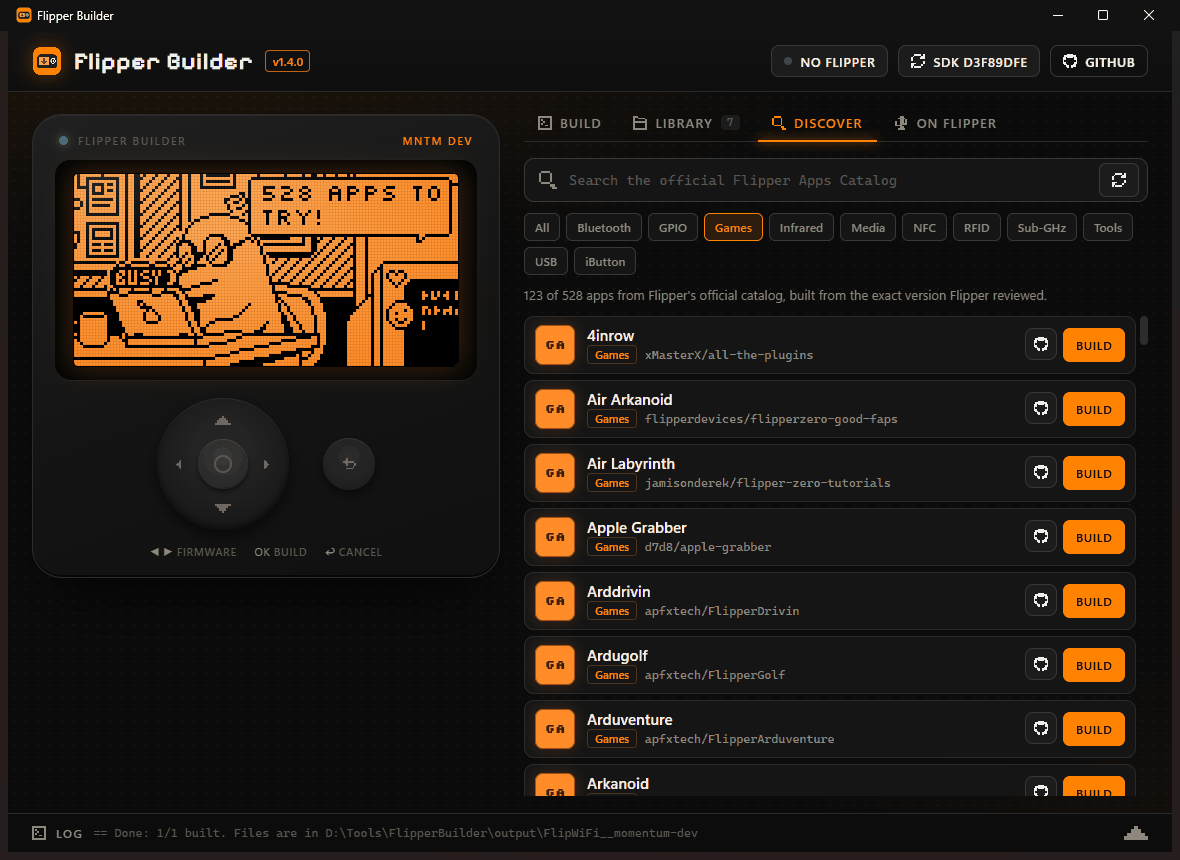
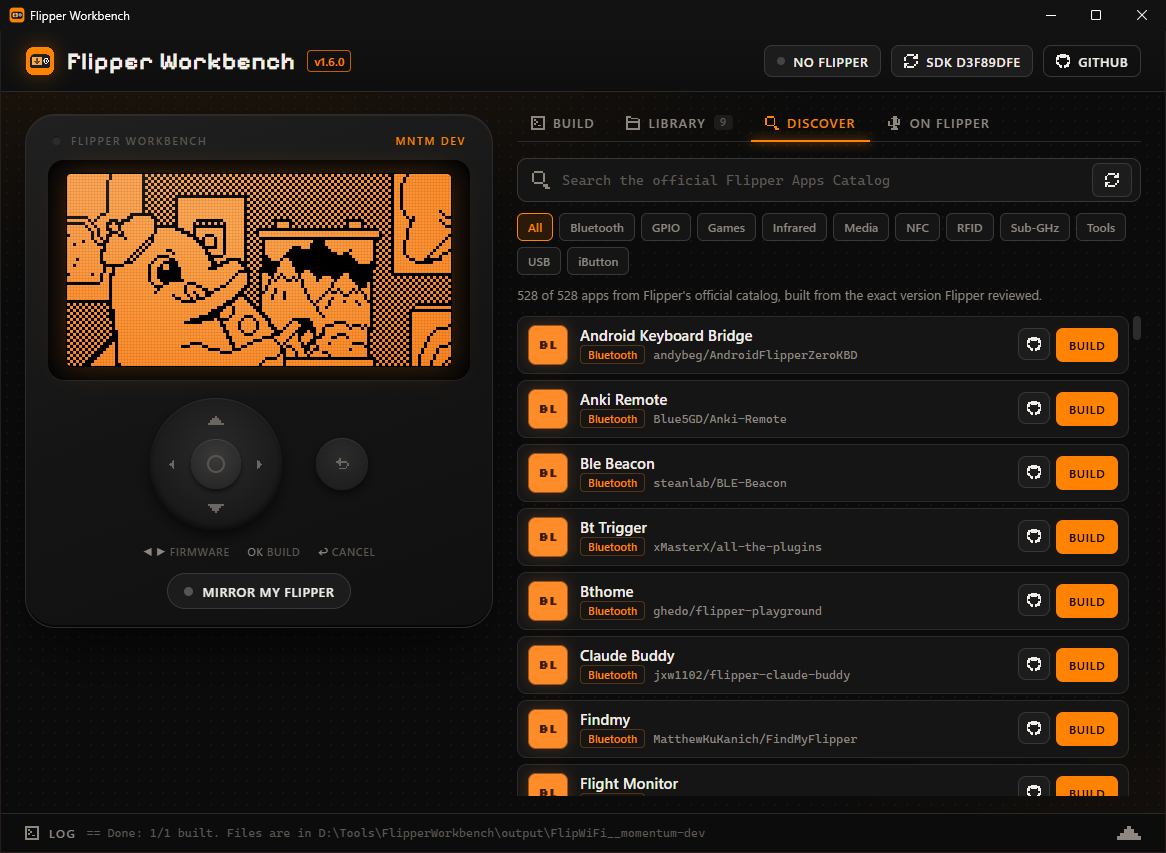
v1.6.0: rename to Flipper Workbench
The app now manages apps, files, backups and the screen of the Flipper,
not just builds, so it is renamed. Engine module, exe, installer, window,
UI and README follow the new name.

- install.ps1 takes over an old Flipper Builder install: moves its data
  (folders renamed whole, so the toolchain's junction survives), removes
  the old shortcuts and Apps entry.
- Library paths into a moved data folder are rebased on load.
- Backups made before the rename still restore; FLIPPER_BUILDER_HOME is
  still honoured.
- Fix: building one app from a repo no longer wipes the other apps built
  from that repo in output/.

diff --git a/ui/app.js b/ui/app.js
@@ -1,4 +1,4 @@
-/* Flipper Builder UI. Talks to Python through window.pywebview.api (see gui.py). */
+/* Flipper Workbench UI. Talks to Python through window.pywebview.api (see gui.py). */
 (() => {
 "use strict";
 
@@ -242,12 +242,12 @@ function mockApi() {
     { key: "c", source: "https://github.com/x/dice", repo: "x/dice", name: "Dice D&D", appid: "dice", category: "Games", version: "1.2", fw: "official", sdk: "1.5.1", api: "88.2", file: "C:\\d.fap", files: [{ path: "C:\\d.fap" }], size: 9000, built: Date.now() / 1000 - 600 },
   ];
   return {
-    init: async () => ({ version: "1.3.0", repo: "https://github.com/c3rb3ruszx/flipper-builder",
+    init: async () => ({ version: "1.3.0", repo: "https://github.com/c3rb3ruszx/flipper-workbench",
       firmwares: fws.map(([id, label, short, sdk, api]) => ({ id, label, short, sdk, api })), fw: "momentum-dev", after: "none", auto_fw: true,
       recent: [{ url: "https://github.com/jblanked/FlipWiFi", fw: "momentum-dev", name: "FlipWiFi", repo: "jblanked/FlipWiFi", ok: true, t: 0 }],
       clipboard: "", out_dir: "C:\\output", device: { connected: false }, library_count: lib.length }),
     start_background: async () => { later(2500, [{ type: "device", device: { connected: true, port: "COM7", name: "Ochenko", fw: "momentum-dev", fw_name: "Momentum dev", version: "mntm-dev", commit: "d3f89dfe", api: "87.1" } }]);
-      later(4000, [{ type: "update", version: "1.4.0", url: "https://github.com/c3rb3ruszx/flipper-builder/releases" }]); return true; },
+      later(4000, [{ type: "update", version: "1.4.0", url: "https://github.com/c3rb3ruszx/flipper-workbench/releases" }]); return true; },
     clipboard: async () => "", set_prefs: async () => true, refresh_device: async () => ({}),
     build: async (url, fw) => {
       const fail = /fail/.test(url), multi = /multi/.test(url);

diff --git a/ui/index.html b/ui/index.html
@@ -2,7 +2,7 @@
 <html lang="en">
 <head>
 <meta charset="utf-8">
-<title>Flipper Builder</title>
+<title>Flipper Workbench</title>
 <meta name="viewport" content="width=device-width, initial-scale=1">
 <link rel="stylesheet" href="app.css">
 </head>
@@ -11,7 +11,7 @@
 <header class="top">
   <div class="brand">
     <img class="brand-icon" src="icon.png" alt="">
-    <h1>Flipper Builder</h1>
+    <h1>Flipper Workbench</h1>
     <span class="ver" id="ver">v1</span>
     <button class="pill update" id="updatePill" hidden title="A new version is out"><i data-icon="tri-up"></i><span id="updateText">Update</span></button>
   </div>
@@ -31,7 +31,7 @@
   <section class="device" aria-label="Flipper screen">
     <div class="device-top">
       <span class="led" id="led" title="Status LED"></span>
-      <span class="device-label">FLIPPER&nbsp;BUILDER</span>
+      <span class="device-label">FLIPPER&nbsp;WORKBENCH</span>
       <span class="device-fw" id="deviceFw">OFW</span>
     </div>
     <div class="bezel">

diff --git a/flipper_workbench.py b/flipper_workbench.py
@@ -1,7 +1,7 @@
-"""Flipper Builder: paste a GitHub link to a Flipper Zero app, get a .fap.
+"""Flipper Workbench: build, install and manage Flipper Zero apps from your PC.
 
-GUI:  pythonw flipper_builder.py            (window: gui.py, UI: ui/)
-CLI:  python flipper_builder.py <github-url> [--fw official|official-dev|momentum|momentum-dev|unleashed|unleashed-dev] [--send]
+GUI:  pythonw flipper_workbench.py            (window: gui.py, UI: ui/)
+CLI:  python flipper_workbench.py <github-url> [--fw official|official-dev|momentum|momentum-dev|unleashed|unleashed-dev] [--send]
 """
 
 import base64
@@ -19,14 +19,15 @@ import urllib.request
 import zipfile
 from pathlib import Path
 
-APP_NAME = "Flipper Builder"
-APP_VERSION = "1.5.0"
-APP_ID = "c3rb3ruszx.FlipperBuilder"
-REPO_URL = "https://github.com/c3rb3ruszx/flipper-builder"
+APP_NAME = "Flipper Workbench"
+APP_VERSION = "1.6.0"
+APP_ID = "c3rb3ruszx.FlipperWorkbench"
+REPO_URL = "https://github.com/c3rb3ruszx/flipper-workbench"
 FROZEN = getattr(sys, "frozen", False)
 # Frozen app: data lives next to the .exe. From source: next to this file.
 ROOT = Path(sys.executable).resolve().parent if FROZEN else Path(__file__).resolve().parent
-ROOT = Path(os.environ.get("FLIPPER_BUILDER_HOME", ROOT))
+# FLIPPER_BUILDER_HOME is the pre-1.6 name, still honoured
+ROOT = Path(os.environ.get("FLIPPER_WORKBENCH_HOME") or os.environ.get("FLIPPER_BUILDER_HOME") or ROOT)
 BUNDLE = Path(getattr(sys, "_MEIPASS", Path(__file__).resolve().parent))
 ICON = BUNDLE / "assets" / "icon.ico"
 UI_DIR = BUNDLE / "ui"
@@ -299,11 +300,30 @@ def install_to_flipper(job, files, port=None):
 
 # ---------------------------------------------------------------- library of built apps
 
+def _rebase_output(path):
+    """A built file whose folder was moved (or renamed, as in 1.6.0) is looked up under this ROOT's output/."""
+    if not path or Path(path).exists():
+        return path
+    parts = Path(path).parts
+    low = [p.lower() for p in parts]
+    if "output" not in low:
+        return path
+    last = len(low) - 1 - low[::-1].index("output")
+    tail = parts[last + 1:]
+    moved = OUT_DIR.joinpath(*tail) if tail else None
+    return str(moved) if moved and moved.exists() else path
+
+
 def load_library():
     try:
-        return json.loads(LIBRARY.read_text(encoding="utf-8"))
+        items = json.loads(LIBRARY.read_text(encoding="utf-8"))
     except Exception:  # noqa: BLE001
         return []
+    for i in items:
+        i["file"] = _rebase_output(i.get("file"))
+        for f in i.get("files") or []:
+            f["path"] = _rebase_output(f.get("path"))
+    return items
 
 
 def save_library(items):
@@ -583,8 +603,8 @@ def build(source, fw="official", send=False, job=None, install=False, only=None)
     env = ensure_sdk(job, fw)
     version, api = sdk_version(fw), sdk_api(fw)
     out = OUT_DIR / f"{repo}__{fw}"
-    if not only:
-        rmtree(out)
+    # Never clear this folder: it is shared by every app built from this repo for this firmware
+    # (e.g. two subfolders of one collection), and the library points at those files. New builds overwrite.
     out.mkdir(parents=True, exist_ok=True)
 
     job.stage("build", f"{len(apps)} app(s)")
@@ -695,7 +715,7 @@ if __name__ == "__main__":
         sys.stdout = open(os.devnull, "w")
     if sys.stderr is None:
         sys.stderr = open(os.devnull, "w")
-    # A stray script path (e.g. an old shortcut that ran "pythonw flipper_builder.py") is not a CLI call.
+    # A stray script path (e.g. an old shortcut that ran "pythonw flipper_workbench.py") is not a CLI call.
     args = [a for a in sys.argv[1:] if not a.lower().endswith((".py", ".pyw"))]
     if args:
         sys.exit(cli(args))

diff --git a/device.py b/device.py
@@ -149,7 +149,7 @@ def read_info(port, sdk_dirs):
 
 
 def classify(info):
-    """Map device info to (firmware id, nice name). Firmware id matches flipper_builder.FIRMWARES."""
+    """Map device info to (firmware id, nice name). Firmware id matches flipper_workbench.FIRMWARES."""
     fork = (info.get("firmware_origin_fork") or "").lower()
     git = (info.get("firmware_origin_git") or "").lower()
     version = (info.get("firmware_version") or "").lower()
@@ -525,7 +525,7 @@ def backup(port, sdk_dirs, names, zip_path, device_info=None, progress=lambda do
                     z.writestr(f[len("/ext/"):], data)
                     done += size
                     progress(done, total, f)
-                z.writestr("_flipper_builder_backup.json", json.dumps({
+                z.writestr(BACKUP_META, json.dumps({
                     "created": int(time.time()), "folders": names, "files": len(files), "bytes": done,
                     "device": device_info or {}}, indent=1))
         finally:
@@ -534,13 +534,20 @@ def backup(port, sdk_dirs, names, zip_path, device_info=None, progress=lambda do
     return {"path": str(zip_path), "files": len(files), "bytes": done}
 
 
+BACKUP_META = "_flipper_workbench_backup.json"
+_META_NAMES = (BACKUP_META, "_flipper_builder_backup.json")   # backups made before the rename
+
+
 def backup_info(zip_path):
     with zipfile.ZipFile(zip_path) as z:
-        try:
-            meta = json.loads(z.read("_flipper_builder_backup.json"))
-        except KeyError:
-            meta = {}
-        names = [i for i in z.infolist() if not i.is_dir() and i.filename != "_flipper_builder_backup.json"]
+        meta = {}
+        for n in _META_NAMES:
+            try:
+                meta = json.loads(z.read(n))
+                break
+            except KeyError:
+                pass
+        names = [i for i in z.infolist() if not i.is_dir() and i.filename not in _META_NAMES]
         meta["files"] = len(names)
         meta["bytes"] = sum(i.file_size for i in names)
     return meta
@@ -549,7 +556,7 @@ def backup_info(zip_path):
 def restore(port, sdk_dirs, zip_path, progress=lambda done, total, name: None, should_stop=lambda: False):
     """Copy every file in a backup zip back to /ext, replacing files with the same path. Deletes nothing."""
     with zipfile.ZipFile(zip_path) as z:
-        items = [i for i in z.infolist() if not i.is_dir() and i.filename != "_flipper_builder_backup.json"]
+        items = [i for i in z.infolist() if not i.is_dir() and i.filename not in _META_NAMES]
         for i in items:   # never let a crafted zip write outside /ext
             if i.filename.startswith(("/", "\\")) or ".." in i.filename.replace("\\", "/").split("/"):
                 raise DeviceError(f"Unsafe path in backup: {i.filename}")

diff --git a/gui.py b/gui.py
@@ -1,4 +1,4 @@
-"""Flipper Builder window: a pywebview (WebView2) shell around ui/index.html.
+"""Flipper Workbench window: a pywebview (WebView2) shell around ui/index.html.
 
 Python -> JS: batched events via window.fb.onEvents([...]).
 JS -> Python: the public methods of Api (pywebview's js_api bridge).
@@ -17,7 +17,7 @@ import urllib.request
 import webbrowser
 from pathlib import Path
 
-import flipper_builder as fb
+import flipper_workbench as fb
 
 MAX_RECENT = 8
 AFTER_MODES = ("none", "install", "open")   # what happens after a build: nothing / copy to SD / copy + open
@@ -786,8 +786,8 @@ class Api:
     def _update_check(self):
         try:
             req = urllib.request.Request(
-                "https://api.github.com/repos/c3rb3ruszx/flipper-builder/releases/latest",
-                headers={"User-Agent": "flipper-builder", "Accept": "application/vnd.github+json"})
+                "https://api.github.com/repos/c3rb3ruszx/flipper-workbench/releases/latest",
+                headers={"User-Agent": "flipper-workbench", "Accept": "application/vnd.github+json"})
             with urllib.request.urlopen(req, timeout=15) as r:
                 rel = json.loads(r.read())
             latest = rel.get("tag_name", "")
@@ -838,9 +838,9 @@ def _dark_title_bar(window):
 
 
 def _no_webview2_message(err):
-    msg = ("Flipper Builder needs Microsoft Edge WebView2, which is missing or broken on this PC.\n\n"
+    msg = ("Flipper Workbench needs Microsoft Edge WebView2, which is missing or broken on this PC.\n\n"
            "Install the 'Evergreen Bootstrapper' from\n"
-           "https://developer.microsoft.com/microsoft-edge/webview2/\nthen open Flipper Builder again.\n\n"
+           "https://developer.microsoft.com/microsoft-edge/webview2/\nthen open Flipper Workbench again.\n\n"
            f"Details: {err}")
     try:
         ctypes.windll.user32.MessageBoxW(None, msg, fb.APP_NAME, 0x10)

diff --git a/tools/make_social.py b/tools/make_social.py
@@ -54,7 +54,7 @@ d.ellipse((cx - 17, cy - 17, cx + 17, cy + 17), fill=(58, 58, 58))
 d.ellipse((cx + 96, cy - 20, cx + 136, cy + 20), fill=(36, 36, 36), outline=(52, 52, 52), width=2)
 
 # ---- text block
-pix = ImageFont.truetype(str(ROOT / "ui" / "vendor" / "fonts" / "PixelifySans.ttf"), 92)
+pix = ImageFont.truetype(str(ROOT / "ui" / "vendor" / "fonts" / "PixelifySans.ttf"), 82)
 try:
     pix.set_variation_by_axes([700])
 except Exception:  # noqa: BLE001
@@ -66,16 +66,16 @@ icon = Image.open(ROOT / "assets" / "icon.png").convert("RGBA").resize((88, 88),
 x0 = 84
 img.paste(icon, (x0, 92), icon)
 d.text((x0, 196), "Flipper", font=pix, fill=TEXT)
-d.text((x0, 290), "Builder", font=pix, fill=ORANGE)
-d.text((x0, 410), "GitHub link in, app on your", font=body, fill=MUTED)
-d.text((x0, 452), "Flipper Zero out.", font=body, fill=MUTED)
+d.text((x0, 284), "Workbench", font=pix, fill=ORANGE)
+d.text((x0, 410), "Build, install and manage", font=body, fill=MUTED)
+d.text((x0, 452), "Flipper Zero apps from your PC.", font=body, fill=MUTED)
 # feature chips
 x = x0
-for label in ("OFFICIAL", "MOMENTUM", "UNLEASHED", "USB INSTALL"):
+for label in ("BUILD", "APPS", "FILES", "BACKUPS", "MIRROR"):
     w = int(d.textlength(label, font=small)) + 28
     d.rounded_rectangle((x, 528, x + w, 568), radius=9, fill=(43, 26, 10), outline=(150, 78, 10), width=2)
     d.text((x + 14, 535), label, font=small, fill=(255, 160, 64))
-    x += w + 12
+    x += w + 10
 
 out = ROOT / "assets" / "social-preview.png"
 img.save(out, optimize=True)

diff --git a/catalog.py b/catalog.py
@@ -16,7 +16,7 @@ REPO = "flipperdevices/flipper-application-catalog"
 TREE_URL = f"https://api.github.com/repos/{REPO}/git/trees/main?recursive=1"
 RAW = f"https://raw.githubusercontent.com/{REPO}/main/"
 MAX_AGE = 7 * 24 * 3600
-UA = {"User-Agent": "flipper-builder"}
+UA = {"User-Agent": "flipper-workbench"}
 
 
 def _get(url, timeout=30):

diff --git a/tools/fetch_assets.py b/tools/fetch_assets.py
@@ -42,7 +42,7 @@ FONTS = {
 
 
 def get(url):
-    req = urllib.request.Request(url, headers={"User-Agent": "flipper-builder-assets"})
+    req = urllib.request.Request(url, headers={"User-Agent": "flipper-workbench-assets"})
     with urllib.request.urlopen(req, timeout=60) as r:
         return r.read()
 

diff --git a/README.md b/README.md
@@ -1,24 +1,27 @@
-# Flipper Builder
+# Flipper Workbench
 
-[![Latest release](https://img.shields.io/github/v/release/c3rb3ruszx/flipper-builder?color=ff8200&label=release)](../../releases/latest)
+[![Latest release](https://img.shields.io/github/v/release/c3rb3ruszx/flipper-workbench?color=ff8200&label=release)](../../releases/latest)
 [![Platform](https://img.shields.io/badge/platform-Windows%2010%20%7C%2011-ff8200)](../../releases/latest)
-[![License](https://img.shields.io/github/license/c3rb3ruszx/flipper-builder?color=ff8200)](LICENSE)
+[![License](https://img.shields.io/github/license/c3rb3ruszx/flipper-workbench?color=ff8200)](LICENSE)
 
-**Paste a GitHub link to a Flipper Zero app, press Build, and it's on your Flipper.**
+**Build, install and manage your Flipper Zero's apps from your PC.**
 
-![Flipper Builder compiling an app while the dolphin solders](assets/screenshot.png)
+![Flipper Workbench compiling an app while the dolphin solders](assets/screenshot.png)
 
-A Windows app around [ufbt](https://github.com/flipperdevices/flipperzero-ufbt), Flipper's official
-build tool. No command line and no SDK setup: it gets the right SDK for your firmware, fetches the
-code, builds the app and installs it over USB. The dolphin keeps you company on a Flipper-style LCD
-the whole time: it reads the repo, solders while it compiles, DJs when it's done and cries when the
-build breaks.
+A Windows desktop companion for the Flipper Zero. Paste a GitHub link and it builds the app for your
+exact firmware with [ufbt](https://github.com/flipperdevices/flipperzero-ufbt), Flipper's official
+build tool, then installs it over USB. No command line, no SDK setup. It also lists and manages
+every app on your Flipper, browses and backs up the SD card, and mirrors the Flipper's screen with a
+working remote. The dolphin keeps you company on a Flipper-style LCD the whole time: it reads the
+repo, solders while it compiles, DJs when it's done and cries when the build breaks.
+
+*Called Flipper Builder up to version 1.5.0.*
 
 **[Download the latest release](../../releases/latest)** · [What's new](CHANGELOG.md)
 
 ## Quick start
 
-1. Download `FlipperBuilder-win64.zip`, unzip it anywhere, and run `FlipperBuilder.exe`.
+1. Download `FlipperWorkbench-win64.zip`, unzip it anywhere, and run `FlipperWorkbench.exe`.
 2. Plug in your Flipper (close qFlipper). The app reads its firmware and picks the matching SDK.
 3. Paste a GitHub link to an app, or pick one on the **Discover** tab, and press **Build**.
 
@@ -64,7 +67,7 @@ build breaks.
 - The d-pad works like a Flipper's: left/right switches firmware, OK builds, Back cancels. Keyboard:
   arrows, Enter, Esc, Ctrl+L (link), Ctrl+F (search). Poke the dolphin.
 - SDKs refresh themselves once a day; the **SDK** button in the header forces it.
-- A notice in the header when a new version of Flipper Builder is out.
+- A notice in the header when a new version of Flipper Workbench is out.
 
 ## Screenshots
 
@@ -79,20 +82,20 @@ build breaks.
 
 ## Install
 
-Download `FlipperBuilder-win64.zip` from [Releases](../../releases/latest), unzip anywhere and run
-`FlipperBuilder.exe`. Needs Windows 10 or 11 with Microsoft Edge WebView2 (built into Windows 11).
+Download `FlipperWorkbench-win64.zip` from [Releases](../../releases/latest), unzip anywhere and run
+`FlipperWorkbench.exe`. Needs Windows 10 or 11 with Microsoft Edge WebView2 (built into Windows 11).
 The first build downloads Flipper's toolchain (a few hundred MB, once). SDKs and built apps are kept
 next to the exe. For USB features, close qFlipper: only one program can use the Flipper's USB port.
 
 ## Run from source
 
-Needs Windows and Python 3.10+. Double-click `Flipper Builder.bat`, or:
+Needs Windows and Python 3.10+. Double-click `Flipper Workbench.bat`, or:
 
 ```
 python -m venv .venv
 .venv\Scripts\pip install ufbt pywebview pyserial
-.venv\Scripts\python flipper_builder.py                                                    # GUI
-.venv\Scripts\python flipper_builder.py <github-url-or-folder> --fw momentum-dev [--send]  # CLI
+.venv\Scripts\python flipper_workbench.py                                                    # GUI
+.venv\Scripts\python flipper_workbench.py <github-url-or-folder> --fw momentum-dev [--send]  # CLI
 ```
 
 `--fw` is one of `official`, `official-dev`, `momentum`, `momentum-dev`, `unleashed`, `unleashed-dev`.
@@ -104,12 +107,14 @@ against a built-in mock, which is handy for working on the design.
 
 ```
 .venv\Scripts\pip install pyinstaller pillow
-powershell -ExecutionPolicy Bypass -File tools\build_exe.ps1     # -> dist\FlipperBuilder\
+powershell -ExecutionPolicy Bypass -File tools\build_exe.ps1     # -> dist\FlipperWorkbench\
 powershell -ExecutionPolicy Bypass -File tools\install.ps1       # optional: Start menu, desktop, Apps list
 ```
 
-`install.ps1` installs to `%LOCALAPPDATA%\Programs\FlipperBuilder` by default (`-Target <folder>` to
-change it) and registers a per-user uninstaller. No admin rights needed.
+`install.ps1` installs to `%LOCALAPPDATA%\Programs\FlipperWorkbench` by default (`-Target <folder>` to
+change it) and registers a per-user uninstaller. No admin rights needed. It also takes over an old
+Flipper Builder install: SDKs, built apps, library and settings move to the new folder, and the old
+shortcuts and Apps entry are removed.
 
 ## How it works
 
@@ -135,7 +140,7 @@ caches it for a week.
 - **ufbt** and the **storage client** (`flipper_storage.py`) by Flipper Devices, GPL-3.0.
 - **App catalog index**: Flipper's official Apps Catalog; each app belongs to its author.
 
-Flipper Builder is an unofficial community tool and is not affiliated with or endorsed by Flipper Devices Inc.
+Flipper Workbench is an unofficial community tool and is not affiliated with or endorsed by Flipper Devices Inc.
 "Flipper Zero" is a trademark of Flipper Devices Inc.
 
 ## License

diff --git a/CHANGELOG.md b/CHANGELOG.md
@@ -2,6 +2,19 @@
 
 Downloads for every version are on the [Releases](../../releases) page.
 
+## 1.6.0
+
+- **Renamed to Flipper Workbench.** It started as a builder and now also manages the apps, files,
+  backups and screen of your Flipper, so the name says so. The repo moved to
+  `c3rb3ruszx/flipper-workbench`; the old link redirects.
+- Upgrading from Flipper Builder: unzip the new release, then move `.cache`, `output`,
+  `library.json` and `settings.json` from the old folder into the new one (or unzip over the old
+  folder). Library entries find their built apps again after a folder move, and backups made by
+  Flipper Builder still restore.
+- `install.ps1` (for running from source) migrates an old Flipper Builder install by itself.
+- Fix: building one app from a repo no longer deletes the other apps you built earlier from the same
+  repo (for example two folders of one collection) from `output`.
+
 ## 1.5.0
 
 - **Screen mirror + remote**: the app's LCD shows your Flipper's real screen live; the d-pad and
